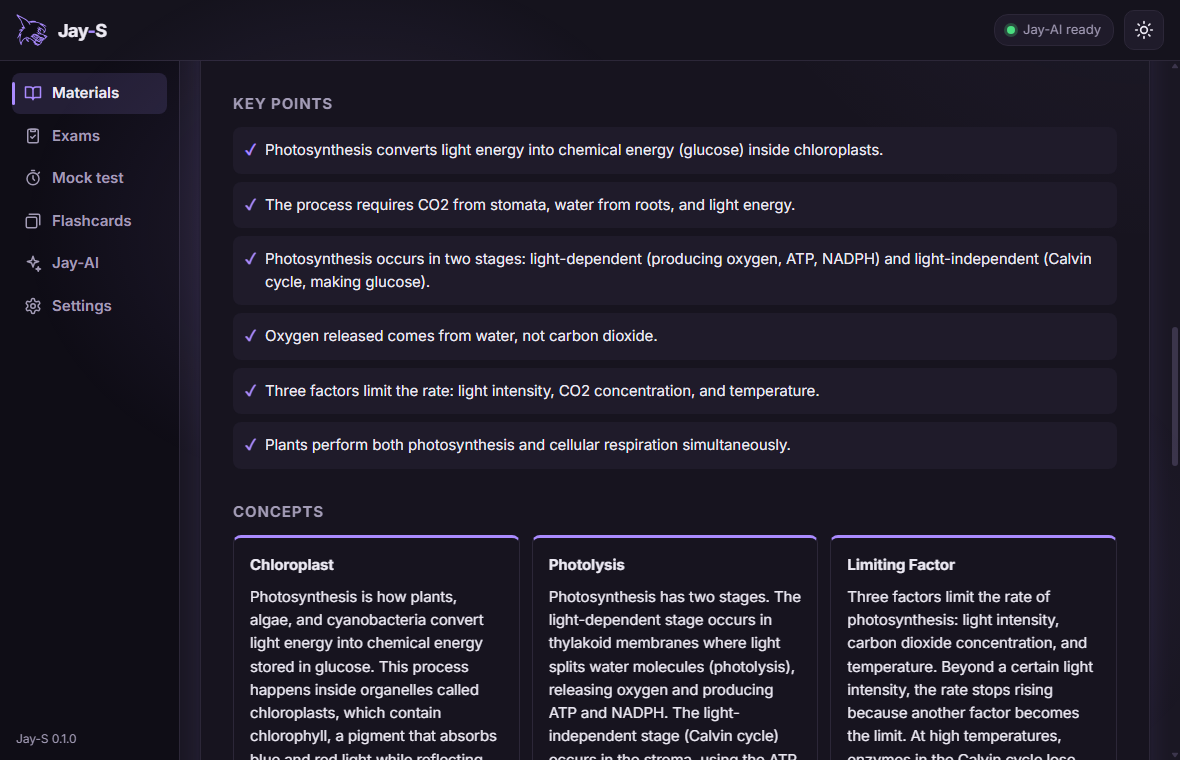
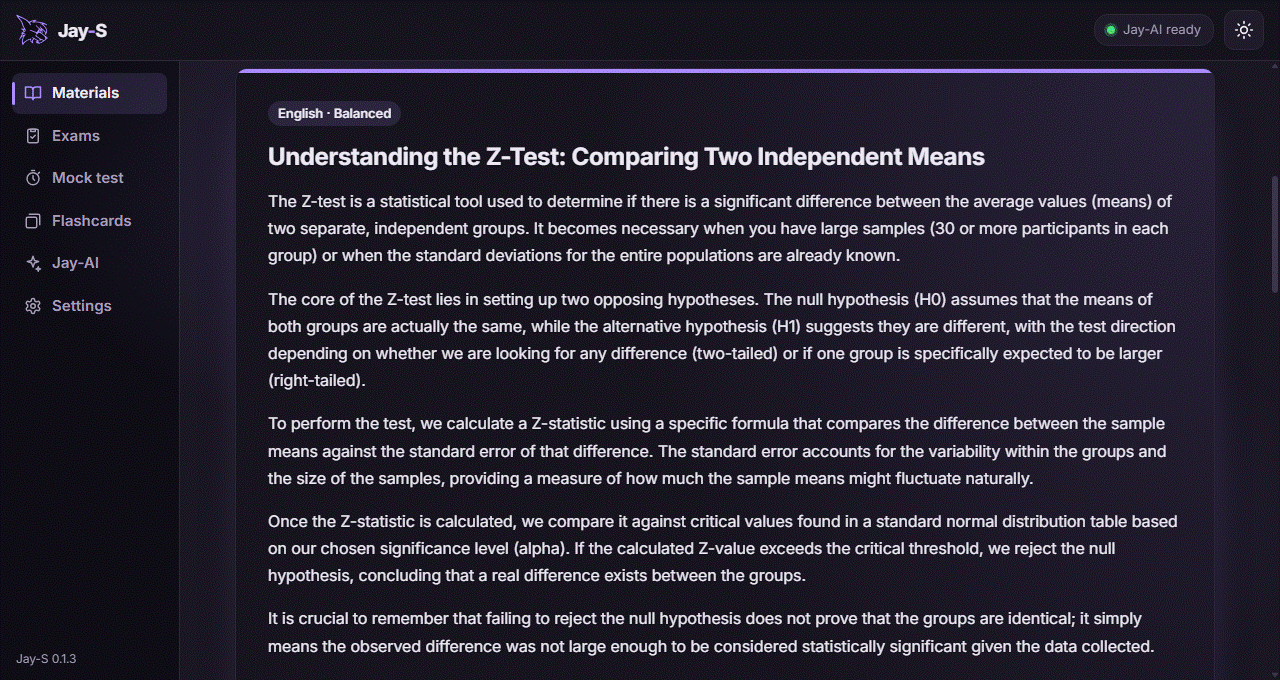
README novo: prints do app, as provas prontas e a vitrine do lobo
O quê: o README.md e o README.pt-BR.md passam a apresentar o Jay-S por
seções, cada uma com imagem: provas prontas, a questão com o texto-base e a
página original, a análise do Jay-AI, o chat que calcula, explicações e
flashcards, os três estilos com tema claro e escuro, o lobo e a privacidade.
Entram 11 imagens novas em docs/images, a explain.png é refeita e as três
chat-*.png saem (mostravam a marca antiga).

Por quê: o README ainda mostrava a marca anterior e não mostrava nada do que
entrou desde a 0.1.1.

Verificado: cada imagem foi aberta e conferida: nenhuma mostra nome, caminho,
material ou conversa do usuário. Os prints do app são capturas do app de
desenvolvimento rodando (0.1.3), e os textos do Jay-AI neles são respostas
do modelo, sem edição. A conta do chat foi refeita à mão: z = 2,0062. Toda
imagem ligada nos dois arquivos existe; npm test: 37 passam.

Limites: a nota de 74% do print foi montada (marcações escolhidas pelo
gabarito). O resumo da sessão de flashcards é descrito, não mostrado. Não foi
visto como o README aparece no GitHub.

diff --git a/README.pt-BR.md b/README.pt-BR.md
@@ -1,29 +1,99 @@
-# Jay-S
+<p align="center"><img src="frontend/src-tauri/icons/128x128@2x.png" alt="O lobo do Jay-S: uma cabeça de lobo desenhada à mão, em traço laranja" width="112"></p>
 
-[![CI](https://github.com/TyxMatty/Jay-S/actions/workflows/ci.yml/badge.svg)](https://github.com/TyxMatty/Jay-S/actions/workflows/ci.yml)
+<h1 align="center">Jay-S</h1>
 
-[English](README.md) · **Português**
+<p align="center"><strong>Estude com provas de verdade e com o seu material, ao lado de uma IA que roda no seu computador.</strong></p>
 
-O app de estudos da linha Jay: anexe seu conteúdo e suas provas, e o **Jay-AI**, um modelo que roda no seu computador, monta provas no estilo que você escolher (ENEM, UEPG, UEM, UNICENTRO…) que você faz no próprio app (marcando X ou somatória, com um modo aprender que mostra cada resposta na hora), simulados com tempo e flashcards que se adaptam a você. Seus arquivos não saem do computador.
+<p align="center">
+  <a href="https://github.com/TyxMatty/Jay-S/actions/workflows/ci.yml"><img src="https://github.com/TyxMatty/Jay-S/actions/workflows/ci.yml/badge.svg" alt="CI"></a>
+</p>
 
-<p align="center"><img src="docs/images/explain.png" alt="O Jay-S explicando uma apostila de fotossíntese (com a interface em inglês): uma lista de pontos principais e cartões com os conceitos, escritos pelo Jay-AI" width="820"></p>
+<p align="center"><a href="README.md">English</a> · <strong>Português</strong></p>
+
+<p align="center"><img src="docs/images/hero.png" alt="O Jay-S na aba Provas prontas (com a interface em inglês): as provas do Vestibular UEPG 2025, de 45 questões de somatória cada, com o gabarito oficial; o Grupo 1 e o Grupo 2 já estão baixados e prontos para fazer, os outros têm o botão de baixar" width="880"></p>
+
+O Jay-S é o app de estudos da linha Jay, para Windows. Faça uma prova de vestibular de verdade, ou anexe suas apostilas e provas e deixe o **Jay-AI** montar provas no estilo que você escolher (ENEM, UEPG, UEM, UNICENTRO…). Responda no próprio app, no modo prova ou num modo aprender que mostra cada resposta na hora, ou contra o relógio, como simulado; depois continue com explicações e flashcards. O Jay-AI é um modelo de linguagem que roda no seu computador: seus arquivos e respostas não saem dele.
+
+## Provas prontas
+
+As provas do Vestibular UEPG 2025 vêm prontas para fazer, cada uma com o **gabarito oficial**. Clique em baixar e o Jay-S busca o PDF no site da universidade, confere o arquivo e separa as questões. Nada seu é enviado.
+
+## Cada questão com o seu texto, e a página original
+
+As questões mantêm o texto-base, e **Ver na prova original** abre as páginas do PDF em que a questão está, para quando uma fórmula, tabela ou figura não sobreviveu à conversão em texto.
 
 <table>
   <tr>
-    <td><img src="docs/images/chat-calm.png" alt="Uma conversa nova com o Jay-AI no estilo Calmo, roxo"></td>
-    <td><img src="docs/images/chat-neon.png" alt="Uma conversa nova com o Jay-AI no estilo Neon, ciano"></td>
-    <td><img src="docs/images/chat-soft.png" alt="Uma conversa nova com o Jay-AI no estilo Suave, laranja"></td>
+    <td><img src="docs/images/question.png" alt="Questão 31 de 45 da UEPG 2025 Grupo 1, sobre a escravidão na Grécia e em Roma: o texto-base num quadro destacado, o enunciado e cinco proposições de somatória, duas delas marcadas"></td>
+    <td><img src="docs/images/original.png" alt="A mesma questão com a prova original aberta: a página do PDF de verdade, com a questão 31 sob o título HISTÓRIA e a questão 33 ao lado"></td>
+  </tr>
+</table>
+
+## O Jay-AI olha o seu resultado
+
+Quando você termina, o Jay-S corrige a prova pelo gabarito, questão por questão (as de somatória valem pontos parciais), e manda o resultado para o Jay-AI, que escreve o que foi bem, o que revisar e o que fazer depois.
+
+<p align="center"><img src="docs/images/result.png" alt="O resultado de uma tentativa na UEPG 2025 Grupo 1: 33,1 de 45, 74%, e a análise do Jay-AI embaixo, escrita em português, com um resumo e as seções do que foi bem e do que revisar" width="880"></p>
+
+A análise é a leitura que o modelo faz das suas respostas, não uma nota: como todo modelo de linguagem, ele pode errar detalhes.
+
+## Um chat que faz as contas
+
+Pergunte ao Jay-AI sobre qualquer coisa, sobre os seus materiais ou sobre uma prova que você fez. Quando a pergunta é uma conta, o Jay-AI escolhe a fórmula e **o Jay-S faz a conta**: cada número é calculado pelo app, e num teste de hipótese a decisão (rejeitar H0 ou não) é a comparação que o app faz da estatística com o valor crítico. A resposta avisa com o selo "Calculado pelo app" e pede que você confira a fórmula no seu material.
+
+<p align="center"><img src="docs/images/chat.png" alt="Uma conversa com o Jay-AI sobre uma apostila de estatística: a pergunta, em inglês, traz duas amostras (n = 40, média 72,5, desvio padrão 8; n = 50, média 68,9, desvio padrão 9) e pergunta se rejeita H0 ao nível de 5%; a resposta, com o selo Calculado pelo app, diz para rejeitar H0 porque |2,0062| é maior ou igual ao valor crítico 1,96, e mostra os passos com o erro padrão 1,7944 e Z = 2,0062" width="792"></p>
+
+## Explicações e flashcards
+
+**Explicar** transforma uma apostila num texto curto, pontos principais e cartões de conceitos, no idioma e na profundidade que você escolher, e depois faz perguntas para ver o que ficou. Os flashcards saem do seu material e se espaçam conforme você os avalia; uma avaliação pode ser desfeita, e cada sessão termina com um resumo.
+
+<table>
+  <tr>
+    <td><img src="docs/images/explain.png" alt="A explicação do Jay-AI para uma apostila de uma página sobre o teste Z para duas médias, em inglês e no nível equilibrado: um título e cinco parágrafos sobre as hipóteses, a estatística, os valores críticos e o que significa não rejeitar H0"></td>
+    <td><img src="docs/images/flashcards.png" alt="Um flashcard em revisão no baralho Comparing two means, faltando 8: o verso mostra a fórmula de Z para duas médias independentes, com os botões Esqueci (10 minutos), Difícil (12 horas), Bom (1 dia) e Fácil (4 dias), com a interface em inglês"></td>
+  </tr>
+</table>
+
+## Três estilos, claro e escuro
+
+Calmo, Neon e Suave, cada um com tema claro e escuro.
+
+<table>
+  <tr>
+    <td><img src="docs/images/style-calm.png" alt="Os pontos principais e os cartões de conceitos da explicação do teste Z no estilo Calmo: fundo escuro com detalhes roxos e o lobo roxo"></td>
+    <td><img src="docs/images/style-neon.png" alt="A mesma tela no estilo Neon: fundo quase preto com detalhes ciano e o lobo ciano"></td>
+    <td><img src="docs/images/style-soft.png" alt="A mesma tela no estilo Suave: fundo escuro quente com detalhes laranja e o lobo laranja"></td>
   </tr>
   <tr align="center"><td>Calmo</td><td>Neon</td><td>Suave</td></tr>
 </table>
 
+<p align="center"><img src="docs/images/light.png" alt="A aba Provas prontas no tema claro com o estilo Suave: cartões brancos e botões laranja, Grupo 1 e Grupo 2 prontos para fazer" width="880"></p>
+
+## O lobo
+
+A marca do Jay-S é um lobo desenhado à mão. O app pinta o lobo nas cores do estilo que você usa, na barra do topo, na janela e na barra de tarefas.
+
+<p align="center"><img src="docs/images/wolf.png" alt="O lobo do Jay-S: grande, em laranja, no fundo escuro do app; a mesma marca nas cores dos estilos Calmo (roxo), Neon (ciano) e Suave (laranja); em 64, 48, 32, 24 e 16 pixels; e o desenho original, de traço fino, ao lado do ícone engrossado e preenchido feito a partir dele (legendas em inglês)" width="880"></p>
+
+## Privado por natureza
+
+Tudo roda no seu computador: o app, o Jay-AI e os seus dados. O Jay-S usa a rede só para três coisas:
+
+- **O download do Jay-AI**, uma vez, quando você o liga: o programa e o modelo (1,3 ou 2,7 GB).
+- **Uma prova pronta**, quando você clica no botão de baixar dela, do site da universidade.
+- **A busca por atualização**, uma vez a cada abertura, nas releases deste repositório; a atualização só é instalada quando você clica nela.
+
+O texto dos seus arquivos e do modelo aparece como texto, nunca como código da página, e a página nunca lida com caminhos de arquivo. A revisão de segurança está em [docs/SEGURANCA.md](docs/SEGURANCA.md).
+
+Ele também é leve: com o Jay-AI parado, a versão de release mediu cerca de 110 a 120 MB de memória privada, e o Jay-AI sai da memória 2 minutos depois do último uso.
+
 ## Baixar
 
-Baixe o `Jay-S_<versão>_x64-setup.exe` da **[última release](https://github.com/TyxMatty/Jay-S/releases/latest)** (Windows, 64 bits). O Jay-AI não vem no instalador: o programa e o modelo dele (1,3 ou 2,7 GB) são baixados uma vez, quando você liga o Jay-AI no app. O único outro download é o de uma prova pronta (as do Vestibular UEPG 2025, com o gabarito oficial), baixada do site da universidade quando você a escolhe; nada seu é enviado. Todas as versões estão em [releases](https://github.com/TyxMatty/Jay-S/releases).
-
-O plano, as etapas e o que foi medido estão em [docs/ARQUITETURA.md](docs/ARQUITETURA.md). A revisão de segurança (fronteiras de confiança, CWEs e OWASP LLM, Semgrep, achados em aberto) está em [docs/SEGURANCA.md](docs/SEGURANCA.md).
+Baixe o `Jay-S_<versão>_x64-setup.exe` da **[última release](https://github.com/TyxMatty/Jay-S/releases/latest)** (Windows, 64 bits). O Jay-AI não vem no instalador: você o baixa no app, na seção Jay-AI. Todas as versões estão em [releases](https://github.com/TyxMatty/Jay-S/releases).
 
 ## Código
+
+Tauri v2 com JavaScript puro na interface (`frontend/`) e um motor em Rust (`crates/jay-study`); o Jay-AI é o `llama-server` do llama.cpp, rodando num processo filho. O plano, as etapas e o que foi medido estão em [docs/ARQUITETURA.md](docs/ARQUITETURA.md).
 
 ```powershell
 npm install

diff --git a/README.md b/README.md
@@ -1,29 +1,99 @@
-# Jay-S
+<p align="center"><img src="frontend/src-tauri/icons/128x128@2x.png" alt="The Jay-S wolf: a hand-drawn wolf head in orange lines" width="112"></p>
 
-[![CI](https://github.com/TyxMatty/Jay-S/actions/workflows/ci.yml/badge.svg)](https://github.com/TyxMatty/Jay-S/actions/workflows/ci.yml)
+<h1 align="center">Jay-S</h1>
 
-**English** · [Português](README.pt-BR.md)
+<p align="center"><strong>Study with real exams and your own material, next to an AI that runs on your computer.</strong></p>
 
-The study app of the Jay line: attach your content and your exams, and **Jay-AI**, a model that runs on your computer, builds exams in the style you pick (ENEM, UEPG, UEM, UNICENTRO…) that you answer right in the app (multiple choice or sum-type questions, with a learning mode that shows each answer at once), timed mock tests and flashcards that adapt to you. Your files never leave your computer.
+<p align="center">
+  <a href="https://github.com/TyxMatty/Jay-S/actions/workflows/ci.yml"><img src="https://github.com/TyxMatty/Jay-S/actions/workflows/ci.yml/badge.svg" alt="CI"></a>
+</p>
 
-<p align="center"><img src="docs/images/explain.png" alt="Jay-S explaining a handout about photosynthesis: a list of key points and cards with the concepts, written by Jay-AI" width="820"></p>
+<p align="center"><strong>English</strong> · <a href="README.pt-BR.md">Português</a></p>
+
+<p align="center"><img src="docs/images/hero.png" alt="Jay-S on the Ready-made exams tab: the UEPG Vestibular 2025 exams, 45 sum-type questions each with the official answer key; Grupo 1 and Grupo 2 are downloaded and ready to take, the others have a Download button" width="880"></p>
+
+Jay-S is the study app of the Jay line, for Windows. Take a real entrance exam, or attach your handouts and exams and let **Jay-AI** build exams in the style you pick (ENEM, UEPG, UEM, UNICENTRO…). Answer them in the app, in exam mode or in a learning mode that shows each answer at once, or against the clock as a mock test; then keep going with explanations and flashcards. Jay-AI is a language model that runs on your own computer: your files and answers never leave it.
+
+## Ready-made exams
+
+The UEPG Vestibular 2025 exams come ready to take, each with its **official answer key**. Press Download and Jay-S fetches the PDF from the university's website, checks it and splits it into questions. Nothing of yours is sent.
+
+## Every question with its text, and the original page
+
+Questions keep their base text, and **See in the original exam** opens the real PDF pages the question is on, for when a formula, table or figure didn't survive the conversion to text.
 
 <table>
   <tr>
-    <td><img src="docs/images/chat-calm.png" alt="A new conversation with Jay-AI in the Calm style, purple"></td>
-    <td><img src="docs/images/chat-neon.png" alt="A new conversation with Jay-AI in the Neon style, cyan"></td>
-    <td><img src="docs/images/chat-soft.png" alt="A new conversation with Jay-AI in the Soft style, orange"></td>
+    <td><img src="docs/images/question.png" alt="Question 31 of 45 of UEPG 2025 Grupo 1, about slavery in Greece and Rome: its base text in a highlighted box, the statement and five sum-type statements, two of them marked"></td>
+    <td><img src="docs/images/original.png" alt="The same question with the original exam open: the real PDF page, with question 31 under the HISTÓRIA heading and question 33 beside it"></td>
+  </tr>
+</table>
+
+## Jay-AI looks at your result
+
+When you finish, Jay-S grades the exam with the key, question by question (sum-type questions get partial credit), and sends the result to Jay-AI, which writes what went well, what to review and what to do next.
+
+<p align="center"><img src="docs/images/result.png" alt="The result of a UEPG 2025 Grupo 1 attempt: 33.1 of 45, 74%, and Jay-AI's analysis below it, written in Portuguese, with a summary and the sections What went well and What to review" width="880"></p>
+
+The analysis is the model's reading of your answers, not a grade: like any language model, it can get details wrong.
+
+## A chat that computes
+
+Ask Jay-AI about anything, about your materials, or about an exam you took. When the question is a calculation, Jay-AI picks the formula and **Jay-S does the arithmetic**: every number is computed by the app, and for a hypothesis test the decision (reject H0 or not) is the app's comparison of the statistic with the critical value. The reply says so with a "Computed by the app" badge, and asks you to check the formula against your material. (In the picture, Jay-AI wrote the steps in Portuguese.)
+
+<p align="center"><img src="docs/images/chat.png" alt="A Jay-AI conversation about a statistics handout: the question gives two samples (n = 40, mean 72.5, standard deviation 8; n = 50, mean 68.9, standard deviation 9) and asks whether to reject H0 at the 5% level; the reply, marked Computed by the app, says to reject H0 because |2.0062| is at least the critical value 1.96, and lists the steps in Portuguese with the standard error 1.7944 and Z = 2.0062" width="792"></p>
+
+## Explanations and flashcards
+
+**Explain** turns a handout into a short text, key points and concept cards, in the language and depth you choose, then asks you questions to see what stuck. Flashcards come from your material and space themselves out as you rate them; a rating can be undone, and each session ends with a summary.
+
+<table>
+  <tr>
+    <td><img src="docs/images/explain.png" alt="Jay-AI's explanation of a one-page handout on the Z test for two means, in English at the Balanced level: a title and five paragraphs on hypotheses, the statistic, critical values and what not rejecting H0 means"></td>
+    <td><img src="docs/images/flashcards.png" alt="A flashcard under review in the deck Comparing two means, 8 cards left: the answer side shows the Z formula for two independent means, with the buttons Forgot (10 minutes), Hard (12 hours), Good (1 day) and Easy (4 days)"></td>
+  </tr>
+</table>
+
+## Three styles, light and dark
+
+Calm, Neon and Soft, each in a light and a dark theme.
+
+<table>
+  <tr>
+    <td><img src="docs/images/style-calm.png" alt="The key points and concept cards of the Z test explanation in the Calm style: dark background with purple accents and a purple wolf"></td>
+    <td><img src="docs/images/style-neon.png" alt="The same screen in the Neon style: near-black background with cyan accents and a cyan wolf"></td>
+    <td><img src="docs/images/style-soft.png" alt="The same screen in the Soft style: warm dark background with orange accents and an orange wolf"></td>
   </tr>
   <tr align="center"><td>Calm</td><td>Neon</td><td>Soft</td></tr>
 </table>
 
+<p align="center"><img src="docs/images/light.png" alt="The Ready-made exams tab in the light theme with the Soft style: white cards and orange buttons, Grupo 1 and Grupo 2 ready to take" width="880"></p>
+
+## The wolf
+
+The Jay-S mark is a hand-drawn wolf. The app paints it in the colors of the style you use, in the top bar, the window and the taskbar.
+
+<p align="center"><img src="docs/images/wolf.png" alt="The Jay-S wolf: large in orange on the app's dark background; the same mark in the Calm (purple), Neon (cyan) and Soft (orange) colors; at 64, 48, 32, 24 and 16 pixels; and the original thin-line drawing next to the thickened, filled icon made from it" width="880"></p>
+
+## Private by design
+
+Everything runs on your computer: the app, Jay-AI and your data. Jay-S uses the network for three things only:
+
+- **Jay-AI's download**, once, when you turn it on: its runtime and the model (1.3 or 2.7 GB).
+- **A ready-made exam**, when you press its Download button, from the university's website.
+- **The update check**, once per start, against this repository's releases; an update installs only when you click it.
+
+Text from your files and from the model is shown as text, never as page code, and the page never handles file paths. The security review is in [docs/SEGURANCA.en.md](docs/SEGURANCA.en.md).
+
+It is also light: with Jay-AI idle, the release build measured about 110 to 120 MB of private memory, and Jay-AI leaves the memory 2 minutes after its last use.
+
 ## Download
 
-Download `Jay-S_<version>_x64-setup.exe` from the **[latest release](https://github.com/TyxMatty/Jay-S/releases/latest)** (Windows, 64-bit). Jay-AI is not in the installer: its runtime and model (1.3 or 2.7 GB) are downloaded once, when you turn Jay-AI on in the app. The only other download is a ready-made exam (the UEPG Vestibular 2025 ones, with the official answer key), fetched from the university's website when you choose it; nothing of yours is sent. Every version is listed under [releases](https://github.com/TyxMatty/Jay-S/releases).
-
-The plan, the stages and what was measured are in [docs/ARQUITETURA.en.md](docs/ARQUITETURA.en.md). The security review (trust boundaries, CWE and OWASP LLM mapping, Semgrep, open findings) is in [docs/SEGURANCA.en.md](docs/SEGURANCA.en.md).
+Download `Jay-S_<version>_x64-setup.exe` from the **[latest release](https://github.com/TyxMatty/Jay-S/releases/latest)** (Windows, 64-bit). Jay-AI is not in the installer: you download it in the app, in the Jay-AI section. Every version is listed under [releases](https://github.com/TyxMatty/Jay-S/releases).
 
 ## Code
+
+Tauri v2 with vanilla JavaScript for the interface (`frontend/`) and a Rust engine (`crates/jay-study`); Jay-AI is `llama-server` from llama.cpp, run as a child process. The plan, the stages and what was measured are in [docs/ARQUITETURA.en.md](docs/ARQUITETURA.en.md).
 
 ```powershell
 npm install
